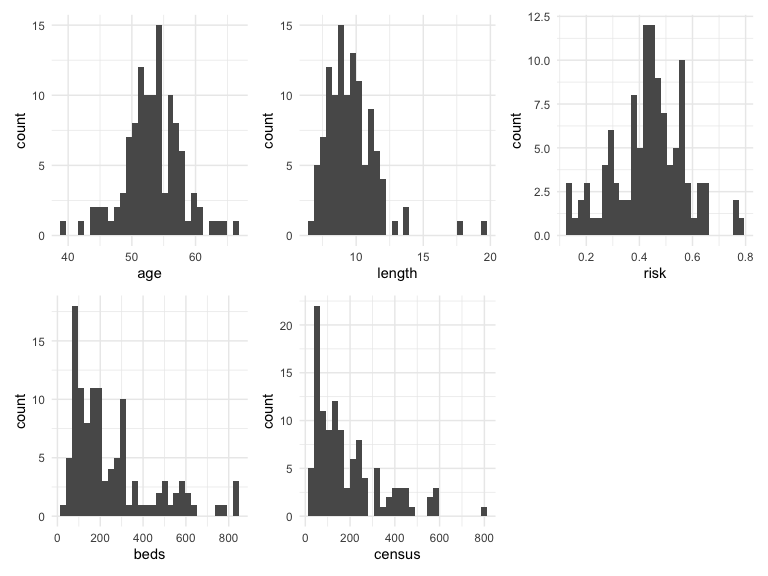
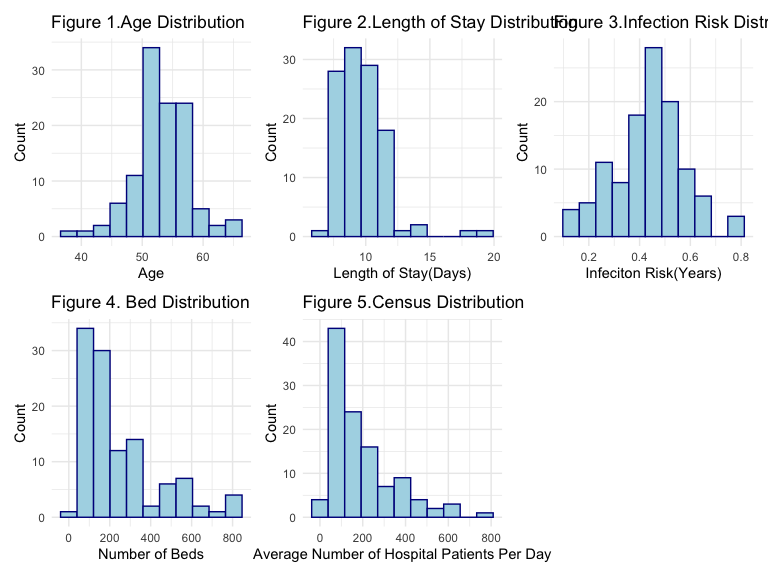
FInished histograms

diff --git a/Final-draft.md b/Final-draft.md
@@ -100,33 +100,26 @@ senic_data1 =
 ``` r
 histogram_age =
 ggplot(senic_data, aes(x = age)) + 
-  geom_histogram()
-## Warning: Removed 3 rows containing non-finite values (stat_bin).
-#length
+  geom_histogram(bins =11, color="darkblue", fill="lightblue") + labs (title = "Figure 1.Age Distribution", x="Age", y ="Count") 
+
 histogram_length=
 ggplot(senic_data, aes(x = length)) + 
-  geom_histogram()
+   geom_histogram(bins =11, color="darkblue", fill="lightblue") + labs (title = "Figure 2.Length of Stay Distribution", x="Length of Stay(Days)", y ="Count") 
 
 histogram_risk =
 ggplot(senic_data, aes(x = risk)) + 
-  geom_histogram()
+   geom_histogram(bins =11, color="darkblue", fill="lightblue") + labs (title = "Figure 3.Infection Risk Distribution", x="Infeciton Risk(Years)", y ="Count") 
 
 histogram_beds =
 ggplot(senic_data, aes(x = beds)) + 
-  geom_histogram()
+   geom_histogram(bins =11, color="darkblue", fill="lightblue") + labs (title = "Figure 4. Bed Distribution", x="Number of Beds", y ="Count") 
 
 histogram_census =
 ggplot(senic_data, aes(x = census)) + 
-  geom_histogram()
+     geom_histogram(bins =11, color="darkblue", fill="lightblue") + labs (title = "Figure 5.Census Distribution", x="Average Number of Hospital Patients Per Day", y ="Count") 
 
 histogram_age+histogram_length+histogram_risk+histogram_beds+histogram_census
 ```
-
-    ## `stat_bin()` using `bins = 30`. Pick better value with `binwidth`.
-    ## `stat_bin()` using `bins = 30`. Pick better value with `binwidth`.
-    ## `stat_bin()` using `bins = 30`. Pick better value with `binwidth`.
-    ## `stat_bin()` using `bins = 30`. Pick better value with `binwidth`.
-    ## `stat_bin()` using `bins = 30`. Pick better value with `binwidth`.
 
 <img src="Final-draft_files/figure-gfm/histograms #1-1.png" width="90%" />
 
